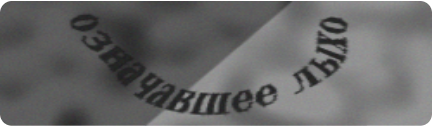
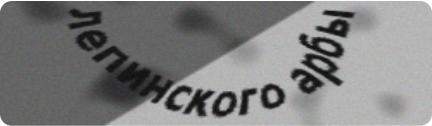
fixing error in loop of links

diff --git a/functions.js b/functions.js
@@ -1,5 +1,5 @@
 // api and functions file
-import { page, createPageActions, randomSleep, captcha_exists } from './scarper_operations.js'
+import { page, createPageActions } from './scarper_operations.js'
 import "dotenv/config";
 
 // lets just give it a shot on a free tire
@@ -87,59 +87,6 @@ export async function answer_questions_chat(messages) {
   return ai_answer;
 }
 
-// press checkbox to read only unread messages
-export async function unread_checkbox(page)
-{
-  try{
-    // waiting for selector to appear
-    await page.waitForSelector(
-      'button[data-qa="chatikActivator-button"]',
-      { visible: true, }
-    );
-
-    const chatik_btn = await page.$('button[data-qa="chatikActivator-button"]');
-
-    if (chatik_btn) {
-      await chatik_btn.asElement().click();
-
-      await randomSleep();
-
-      // waiting for selector to appear
-      await page.waitForSelector(
-        'iframe.chatik-integration-iframe.chatik-integration-iframe_loaded',
-        { visible: true, }
-      );
-
-      // find iframe
-      const iframeHandle = await page.$('iframe.chatik-integration-iframe.chatik-integration-iframe_loaded');
-
-      if(iframeHandle)
-      {
-        const frame = await iframeHandle.contentFrame();
-
-        let back_btn = await frame.$('button[data-qa="chatik-back-to-chats-button"]');
-
-        if(back_btn)
-        {
-          await back_btn.asElement().click();
-          await captcha_exists();
-        }
-
-        const only_unread_btn = await frame.$('input[data-qa="chatik-checkbox-only-unread"]');
-
-        if(only_unread_btn)
-        {
-          await only_unread_btn.asElement().click();
-        }
-      }
-    }
-  }
-  catch(error)
-  {
-    console.log(error);
-  }
-}
-
 // answering to unread messages
 export async function answer_to_unread_messages(page)
 {
@@ -147,109 +94,127 @@ export async function answer_to_unread_messages(page)
     // waiting for selector to appear
     await actions.goto("https://hh.ru/chat")
 
+    // click to check only unread chats
+    const selector = 'input[data-qa="chatik-checkbox-only-unread"]';
+
+    const isChecked = await page.$eval(
+      selector,
+      el => el.checked
+    );
+
+    if (!isChecked) {
+      await actions.click(selector);
+    }
+
     // parsing chats with unread messages
-    const links = (await frame.$$('a[id^="chat-cell-"]')).slice(0, 10);
+    const links = (await page.$$('a[id^="chat-cell-"]')).slice(0, 10);
 
     const hrefs = await Promise.all(
       links.map(link => link.evaluate(el => el.href))
     );
 
     for (const link of hrefs) {
-      // going to chat page
-      await actions.goto(link);
+      try{
+        // going to chat page
+        await actions.goto(link);
 
-      // waiting for selector to appear
-      await page.waitForSelector(
-        'textarea',
-        { visible: true, }
-      );
+        // waiting for selector to appear
+        await page.waitForSelector(
+          'textarea',
+          { visible: true, }
+        );
 
-      const textarea_obj = await page.$('textarea');
+        const textarea_obj = await page.$('textarea');
 
-      if (!textarea_obj) {
-        continue;
-      }
+        if (!textarea_obj) {
+          continue;
+        }
 
-      const chat_messages = [];
+        const chat_messages = [];
 
-      const message_classes = await page.evaluate(() => {
-        return [...document.querySelectorAll('span[data-qa="chat-bubble-text"]')]
-        .map(span => span.closest("div").getAttribute("data-qa"))
-      });
+        const message_classes = await page.evaluate(() => {
+          return [...document.querySelectorAll('span[data-qa="chat-bubble-text"]')]
+          .map(span => span.closest("div").getAttribute("data-qa"))
+        });
 
-      for(const message_class of message_classes)
-      {
-        const chat_obj = await page.evaluate((message_class) => {
-          const class_name = document.querySelector(`div[data-qa="${message_class}"]`);
-
-          if(class_name)
-          {
-            const closest_div = class_name.closest("div").parentElement.className;
-
-            const message_element = document.querySelector(`div[data-qa="${message_class}"]`);
-
-            if(message_element)
-            {
-              const message_text = message_element.querySelector(`span[data-qa="chat-bubble-text"]`).textContent.trim();
-
-              let role = "assistant";
-
-              if (
-                closest_div.includes("left") ||
-                closest_div.includes("bot")
-              ) {
-                role = "user";
-              }
-
-              const obj_to_return = {
-                role: role,
-                content: message_text,
-              };
-
-              return obj_to_return; 
-            }
-          }
-          else
-          {
-            return false;
-          }
-        }, message_class);
-
-        if(chat_obj)
+        for(const message_class of message_classes)
         {
-          chat_messages.push(chat_obj);
+          const chat_obj = await page.evaluate((message_class) => {
+            const class_name = document.querySelector(`div[data-qa="${message_class}"]`);
+
+            if(class_name)
+            {
+              const closest_div = class_name.closest("div").parentElement.className;
+
+              const message_element = document.querySelector(`div[data-qa="${message_class}"]`);
+
+              if(message_element)
+              {
+                const message_text = message_element.querySelector(`span[data-qa="chat-bubble-text"]`).textContent.trim();
+
+                let role = "assistant";
+
+                if (
+                  closest_div.includes("left") ||
+                  closest_div.includes("bot")
+                ) {
+                  role = "user";
+                }
+
+                const obj_to_return = {
+                  role: role,
+                  content: message_text,
+                };
+
+                return obj_to_return; 
+              }
+            }
+            else
+            {
+              return false;
+            }
+          }, message_class);
+
+          if(chat_obj)
+          {
+            chat_messages.push(chat_obj);
+          }
+        }
+
+        // sending chat messages to ai agent
+        const ai_answer = await answer_questions_chat(chat_messages);
+
+        if(ai_answer === "success_vacancy")
+        {
+          await fetch("http://localhost:8000/send-vacancy", {
+            method: "POST",
+            headers: {
+              "Content-Type": "application/json"
+            },
+            body: JSON.stringify({
+              url: link
+            })
+          });
+        }
+        else
+        {
+          // find textarea and type letter
+          await page.evaluate((ai_answer) => {
+            const textarea = document.querySelector('textarea[data-qa="text-input"]');
+            if (textarea) {
+              textarea.value = ai_answer;
+              textarea.dispatchEvent(new Event('input', { bubbles: true }));
+            }
+          }, ai_answer);
+
+          await actions.type(' ');
+                
+          await actions.click('button[data-qa="chatik-do-send-message"]');
         }
       }
-
-      // sending chat messages to ai agent
-      const ai_answer = await answer_questions_chat(chat_messages);
-
-      if(ai_answer === "success_vacancy")
+      catch(error)
       {
-        await fetch("http://localhost:8000/send-vacancy", {
-          method: "POST",
-          headers: {
-            "Content-Type": "application/json"
-          },
-          body: JSON.stringify({
-            url: link
-          })
-        });
-      }
-      else
-      {
-        // find textarea and type letter
-        await page.evaluate((ai_answer) => {
-          const textarea = document.querySelector('textarea[data-qa="chatik-new-message-text"]');
-          if (textarea) {
-            textarea.value = ai_answer;
-            textarea.dispatchEvent(new Event('input', { bubbles: true }));
-          }
-        }, ai_answer);
-
-        await actions.type(' ');
-                
-        await actions.click('button[data-qa="chatik-do-send-message"]');
+        console.log(error);
       }
     }
   }

diff --git a/index.js b/index.js
@@ -1,7 +1,7 @@
 
 import { page, browser, createPageActions, randomSleep } from './scarper_operations.js'
 import { entrance, parse_vacancies } from './page_operations.js';
-import { unread_checkbox, answer_to_unread_messages, sleep } from './functions.js';
+import { answer_to_unread_messages, sleep } from './functions.js';
 
 // initialising scarper methods
 const actions = createPageActions(page);
@@ -17,9 +17,6 @@ await page.setViewport({width: 1920, height: 1080})
 // auth
 await entrance();
 
-// initialize unread messages to show only unread ones
-await unread_checkbox(page);
-
 // vacansy responds
 let vacancies_counter = 0;
 let drop_counter = false;
@@ -32,10 +29,6 @@ while(browser)
         setTimeout(() => {
             drop_counter = true;
         }, 24 * 60 * 60 * 1000);
-        
-        await answer_to_unread_messages(page);
-        await sleep(60 * 10000);
-        await randomSleep();
 
         if(drop_counter)
         {

diff --git a/page_operations.js b/page_operations.js
@@ -55,7 +55,7 @@ export async function entrance()
     await sleep(60000);
 
     const code = await getCode();
-    await page.keyboard.type(code);
+    await actions.type(code);
 }
 
 // updating resume function
